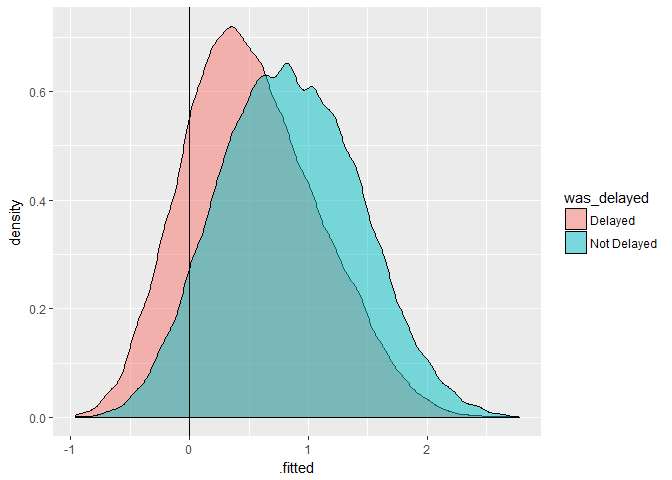
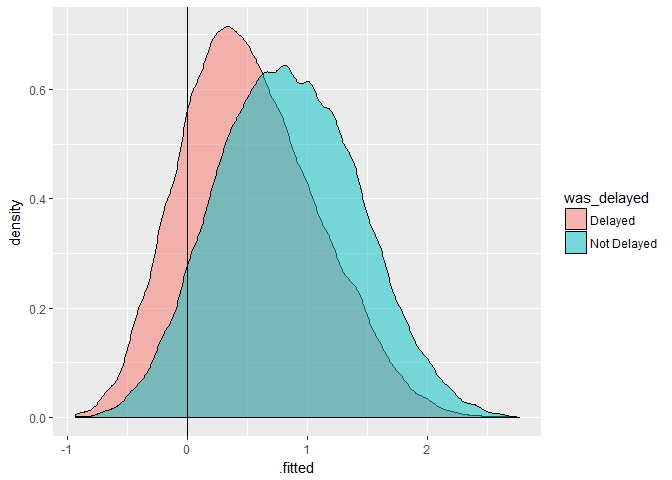
:crystal_ball:

diff --git a/README.md b/README.md
@@ -58,14 +58,14 @@ We can use dbplyr to construct dplyr commands that work on the DB.
 library(tidyverse)
 ```
 
-    ## -- Attaching packages ---------------------------------------------------------- tidyverse 1.2.1 --
+    ## -- Attaching packages --------------------------------------- tidyverse 1.2.1 --
 
     ## v ggplot2 2.2.1     v purrr   0.2.4
     ## v tibble  1.4.2     v dplyr   0.7.4
     ## v tidyr   0.8.0     v stringr 1.3.0
     ## v readr   1.1.1     v forcats 0.2.0
 
-    ## -- Conflicts ------------------------------------------------------------- tidyverse_conflicts() --
+    ## -- Conflicts ------------------------------------------ tidyverse_conflicts() --
     ## x dplyr::filter() masks stats::filter()
     ## x dplyr::lag()    masks stats::lag()
 
@@ -382,7 +382,7 @@ colscleaned_fe
     ##    outcome          1
     ##  predictor         20
     ## 
-    ## Training data contained 235743 data points and 6599 incomplete rows. 
+    ## Training data contained 235743 data points and 6510 incomplete rows. 
     ## 
     ## Operations:
     ## 
@@ -431,7 +431,7 @@ numscleaned_fe
     ##    outcome          1
     ##  predictor         20
     ## 
-    ## Training data contained 235743 data points and 6599 incomplete rows. 
+    ## Training data contained 235743 data points and 6510 incomplete rows. 
     ## 
     ## Operations:
     ## 
@@ -486,24 +486,24 @@ glm_unbal
     ## 
     ## Coefficients:
     ##    month1    month10    month11    month12     month2     month3  
-    ##   1.84970    2.21598    2.18136    1.36252    1.82903    1.94208  
+    ##   1.85865    2.23464    2.20216    1.37038    1.82294    1.95105  
     ##    month4     month5     month6     month7     month8     month9  
-    ##   1.66679    2.03914    1.62157    1.55809    1.87549    2.62006  
+    ##   1.66809    2.05364    1.61828    1.56670    1.87121    2.61962  
     ## carrierAA  carrierB6  carrierDL  carrierEV  carrierMQ  carrierUA  
-    ##   0.28168   -0.17574    0.32667   -0.39089   -0.27171    0.15833  
+    ##   0.26270   -0.18563    0.30956   -0.40124   -0.28433    0.13246  
     ## carrierUS  carrierWN  originJFK  originLGA   distance     hour11  
-    ##   0.08256   -0.17747    0.12322    0.01841   -0.10739   -0.00600  
+    ##   0.05824   -0.17311    0.13285    0.03591   -0.10876   -0.01941  
     ##    hour12     hour13     hour14     hour15     hour16     hour17  
-    ##  -0.14352   -0.22332   -0.39486   -0.59240   -0.56685   -0.70574  
+    ##  -0.13751   -0.24257   -0.39955   -0.60337   -0.55957   -0.70851  
     ##    hour18     hour19     hour20     hour21     hour22     hour23  
-    ##  -0.73363   -0.75659   -0.68971   -0.73143   -0.59814   -0.42021  
+    ##  -0.74508   -0.73835   -0.69824   -0.72290   -0.66451   -0.49821  
     ##     hour5      hour6      hour7      hour8      hour9      week1  
-    ##   0.44658    0.41576    0.37990    0.10514    0.05843   -0.43163  
+    ##   0.41630    0.42899    0.36936    0.11008    0.05182   -0.40953  
     ##     week2      week3  
-    ##  -0.16862   -0.22387  
+    ##  -0.16048   -0.22074  
     ## 
-    ## Degrees of Freedom: 221765 Total (i.e. Null);  221721 Residual
-    ##   (7379 observations deleted due to missingness)
+    ## Degrees of Freedom: 221777 Total (i.e. Null);  221733 Residual
+    ##   (7456 observations deleted due to missingness)
     ## Null Deviance:       307400 
     ## Residual Deviance: 267600    AIC: 267700
 
@@ -515,7 +515,7 @@ glance(glm_unbal)
 ```
 
     ##   null.deviance df.null    logLik      AIC      BIC deviance df.residual
-    ## 1      307431.6  221765 -133784.8 267657.7 268111.3 267569.7      221721
+    ## 1      307448.2  221777 -133818.8 267725.6 268179.2 267637.6      221733
 
 Get the coefficients
 
@@ -523,51 +523,51 @@ Get the coefficients
 tidy(glm_unbal)
 ```
 
-    ##         term     estimate   std.error   statistic       p.value
-    ## 1     month1  1.849699189 0.059380343  31.1500252 5.068044e-213
-    ## 2    month10  2.215979570 0.059965637  36.9541574 6.245544e-299
-    ## 3    month11  2.181359326 0.060067287  36.3152629 9.291910e-289
-    ## 4    month12  1.362518977 0.059528267  22.8886049 6.034077e-116
-    ## 5     month2  1.829034157 0.059618121  30.6791646 1.079530e-206
-    ## 6     month3  1.942083476 0.059594043  32.5885507 5.958489e-233
-    ## 7     month4  1.666792196 0.059460029  28.0321459 6.594316e-173
-    ## 8     month5  2.039143296 0.059687502  34.1636561 8.383578e-256
-    ## 9     month6  1.621569766 0.059559061  27.2262478 3.176462e-163
-    ## 10    month7  1.558089237 0.059506740  26.1834078 4.106439e-151
-    ## 11    month8  1.875486283 0.059634318  31.4497815 4.226593e-217
-    ## 12    month9  2.620062163 0.060763764  43.1188259  0.000000e+00
-    ## 13 carrierAA  0.281680707 0.027162837  10.3700769  3.392518e-25
-    ## 14 carrierB6 -0.175736079 0.023872939  -7.3613090  1.821154e-13
-    ## 15 carrierDL  0.326665970 0.025272978  12.9255037  3.231731e-38
-    ## 16 carrierEV -0.390886925 0.025915724 -15.0830021  2.095213e-51
-    ## 17 carrierMQ -0.271712679 0.026707134 -10.1737863  2.596162e-24
-    ## 18 carrierUA  0.158328682 0.027052122   5.8527268  4.835780e-09
-    ## 19 carrierUS  0.082560502 0.029177457   2.8295989  4.660639e-03
-    ## 20 carrierWN -0.177474196 0.033482186  -5.3005557  1.154507e-07
-    ## 21 originJFK  0.123218702 0.015804737   7.7963147  6.374132e-15
-    ## 22 originLGA  0.018413466 0.014299120   1.2877342  1.978385e-01
-    ## 23  distance -0.107392318 0.007550445 -14.2233104  6.567135e-46
-    ## 24    hour11 -0.005999922 0.031206673  -0.1922641  8.475354e-01
-    ## 25    hour12 -0.143516107 0.029769114  -4.8209735  1.428594e-06
-    ## 26    hour13 -0.223315006 0.029233663  -7.6389676  2.189705e-14
-    ## 27    hour14 -0.394862809 0.028339123 -13.9334871  3.965136e-44
-    ## 28    hour15 -0.592400092 0.027462471 -21.5712597 3.344611e-103
-    ## 29    hour16 -0.566853689 0.028010645 -20.2370808  4.617200e-91
-    ## 30    hour17 -0.705738121 0.027584043 -25.5850138 2.239980e-144
-    ## 31    hour18 -0.733632035 0.028222823 -25.9942826 5.746969e-149
-    ## 32    hour19 -0.756591701 0.028139604 -26.8870774 3.110391e-159
-    ## 33    hour20 -0.689707095 0.029721943 -23.2053163 4.023903e-119
-    ## 34    hour21 -0.731428319 0.032631044 -22.4151062 2.803717e-111
-    ## 35    hour22 -0.598139749 0.055553426 -10.7669282  4.931818e-27
-    ## 36    hour23 -0.420206184 0.080583310  -5.2145560  1.842580e-07
-    ## 37     hour5  0.446578769 0.072934840   6.1229828  9.183964e-10
-    ## 38     hour6  0.415759961 0.028968217  14.3522800  1.030915e-46
-    ## 39     hour7  0.379900725 0.030321063  12.5292682  5.163692e-36
-    ## 40     hour8  0.105143009 0.028020628   3.7523431  1.751895e-04
-    ## 41     hour9  0.058434497 0.029918207   1.9531417  5.080281e-02
-    ## 42     week1 -0.431626541 0.014445697 -29.8792473 3.661582e-196
-    ## 43     week2 -0.168616175 0.014534422 -11.6011611  4.065249e-31
-    ## 44     week3 -0.223874195 0.013449582 -16.6454394  3.265605e-62
+    ##         term    estimate   std.error   statistic       p.value
+    ## 1     month1  1.85864894 0.059504774  31.2352914 3.536485e-214
+    ## 2    month10  2.23464424 0.060018318  37.2327035 2.018752e-303
+    ## 3    month11  2.20215531 0.060125269  36.6261200 1.098344e-293
+    ## 4    month12  1.37037786 0.059561115  23.0079284 3.882814e-117
+    ## 5     month2  1.82294204 0.059662801  30.5540808 4.991119e-205
+    ## 6     month3  1.95104844 0.059630710  32.7188528 8.424614e-235
+    ## 7     month4  1.66809064 0.059576865  27.9989664 1.672543e-172
+    ## 8     month5  2.05363714 0.059761412  34.3639325 8.723017e-259
+    ## 9     month6  1.61828095 0.059631429  27.1380543 3.503305e-162
+    ## 10    month7  1.56669889 0.059541414  26.3127594 1.370254e-152
+    ## 11    month8  1.87120705 0.059669749  31.3593920 7.245109e-216
+    ## 12    month9  2.61961640 0.060766589  43.1094856  0.000000e+00
+    ## 13 carrierAA  0.26270458 0.027226330   9.6489163  4.967794e-22
+    ## 14 carrierB6 -0.18563227 0.023926324  -7.7584951  8.594305e-15
+    ## 15 carrierDL  0.30956140 0.025306457  12.2325068  2.084061e-34
+    ## 16 carrierEV -0.40123777 0.025972100 -15.4487998  7.686127e-54
+    ## 17 carrierMQ -0.28432907 0.026764962 -10.6231821  2.324979e-26
+    ## 18 carrierUA  0.13245772 0.027093384   4.8889322  1.013844e-06
+    ## 19 carrierUS  0.05823574 0.029240127   1.9916379  4.641081e-02
+    ## 20 carrierWN -0.17311168 0.033510242  -5.1659336  2.392418e-07
+    ## 21 originJFK  0.13285000 0.015788122   8.4145541  3.943922e-17
+    ## 22 originLGA  0.03591350 0.014278664   2.5151866  1.189694e-02
+    ## 23  distance -0.10875583 0.007549951 -14.4048390  4.824407e-47
+    ## 24    hour11 -0.01940598 0.031208438  -0.6218185  5.340612e-01
+    ## 25    hour12 -0.13750726 0.029784388  -4.6167563  3.897845e-06
+    ## 26    hour13 -0.24256636 0.029099036  -8.3358901  7.691732e-17
+    ## 27    hour14 -0.39954713 0.028398500 -14.0693039  5.864383e-45
+    ## 28    hour15 -0.60337057 0.027560311 -21.8927343 3.046797e-106
+    ## 29    hour16 -0.55957187 0.028049682 -19.9493125  1.519636e-88
+    ## 30    hour17 -0.70851012 0.027598336 -25.6722042 2.389518e-145
+    ## 31    hour18 -0.74507584 0.028244463 -26.3795359 2.353137e-153
+    ## 32    hour19 -0.73835323 0.028210218 -26.1732551 5.358714e-151
+    ## 33    hour20 -0.69824253 0.029744594 -23.4746026 7.414082e-122
+    ## 34    hour21 -0.72289710 0.032667951 -22.1286331 1.675804e-108
+    ## 35    hour22 -0.66450631 0.055159985 -12.0468907  2.014049e-33
+    ## 36    hour23 -0.49820550 0.079335685  -6.2797151  3.391939e-10
+    ## 37     hour5  0.41629624 0.072428290   5.7477022  9.046438e-09
+    ## 38     hour6  0.42898661 0.029020806  14.7820364  1.912938e-49
+    ## 39     hour7  0.36935928 0.030226951  12.2195349  2.444794e-34
+    ## 40     hour8  0.11008394 0.028032880   3.9269580  8.602699e-05
+    ## 41     hour9  0.05182328 0.029896878   1.7334012  8.302438e-02
+    ## 42     week1 -0.40953354 0.014414156 -28.4118993 1.441548e-177
+    ## 43     week2 -0.16047669 0.014516209 -11.0550000  2.073367e-28
+    ## 44     week3 -0.22074334 0.013423223 -16.4448843  9.125853e-61
 
 Get the fitted data
 
@@ -576,19 +576,19 @@ head(augment(glm_unbal))
 ```
 
     ##   .rownames was_delayed month carrier origin distance hour week  .fitted
-    ## 1         1     Delayed     1      UA    EWR 7.244228    5    0 1.676632
-    ## 2         2     Delayed     1      UA    LGA 7.255591    5    0 1.693825
-    ## 3         3 Not Delayed     1      B6    JFK 7.362645    5    0 1.453069
-    ## 4         4     Delayed     1      UA    EWR 6.577861    5    0 1.748195
-    ## 5         5     Delayed     1      B6    EWR 6.970730    6    0 1.341120
-    ## 6         6 Not Delayed     1      EV    LGA 5.433722    6    0 1.309446
+    ## 1         1     Delayed     1      UA    EWR 7.244228    5    0 1.619551
+    ## 2         2     Delayed     1      UA    LGA 7.255591    5    0 1.654229
+    ## 3         3     Delayed     1      AA    JFK 6.993015    5    0 1.909969
+    ## 4         4 Not Delayed     1      DL    LGA 6.635947    6    0 1.911413
+    ## 5         5 Not Delayed     1      EV    LGA 5.433722    6    0 1.331362
+    ## 6         6 Not Delayed     1      B6    JFK 6.850126    6    0 1.489862
     ##      .se.fit     .resid         .hat   .sigma      .cooksd .std.resid
-    ## 1 0.07225035 -1.9225315 0.0006928264 1.098533 8.431909e-05 -1.9231978
-    ## 2 0.07336855 -1.9300609 0.0007060464 1.098533 8.742046e-05 -1.9307427
-    ## 3 0.07272412  0.6482909 0.0008124028 1.098539 4.324788e-06  0.6485544
-    ## 4 0.07245784 -1.9538098 0.0006630377 1.098533 8.667484e-05 -1.9544579
-    ## 5 0.03098241 -1.7739579 0.0001577533 1.098534 1.371210e-05 -1.7740978
-    ## 6 0.03085874  0.6913653 0.0001593987 1.098539 9.783304e-07  0.6914204
+    ## 1 0.07176255 -1.8974689 0.0007104429 1.098643 8.166873e-05 -1.8981433
+    ## 2 0.07288594 -1.9127064 0.0007159244 1.098642 8.520378e-05 -1.9133915
+    ## 3 0.07306419 -2.0238893 0.0005997529 1.098642 9.215727e-05 -2.0244965
+    ## 4 0.03008116  0.5251842 0.0001015516 1.098649 3.413552e-07  0.5252109
+    ## 5 0.03094513  0.6846518 0.0001582729 1.098649 9.503601e-07  0.6847059
+    ## 6 0.02854165  0.6376055 0.0001222815 1.098649 6.265785e-07  0.6376444
 
 Plot predicted's vs actuals
 
@@ -618,7 +618,7 @@ test_scored %>%
   geom_vline(aes(xintercept=0))
 ```
 
-    ## Warning: Removed 3217 rows containing non-finite values (stat_density).
+    ## Warning: Removed 3140 rows containing non-finite values (stat_density).
 
 ![](README_files/figure-markdown_github/unnamed-chunk-21-1.png)
 
@@ -644,8 +644,8 @@ test_scored %>%
 
     ##              Truth
     ## Prediction    Delayed Not Delayed
-    ##   Delayed        5629        4332
-    ##   Not Delayed   26060       58964
+    ##   Delayed        5685        4428
+    ##   Not Delayed   25942       58918
 
 ``` r
 test_scored %>% 
@@ -654,4 +654,146 @@ test_scored %>%
   accuracy(was_delayed, glm_unbal_class)
 ```
 
-    ## [1] 0.6800337
+    ## [1] 0.6802249
+
+### A glmnet for feature selection
+
+Use regularization to smooth results by modifying coefficients of variables.
+
+``` r
+library(glmnetUtils)
+
+glmnet_unbal<- glmnet(was_delayed~., 
+                      train_prep1, 
+                      family="binomial",
+                      alpha=0.5, 
+                      intercept=FALSE)
+glmnet_unbal
+```
+
+    ## Call:
+    ## glmnet.formula(formula = was_delayed ~ ., data = train_prep1, 
+    ##     alpha = 0.5, family = "binomial", intercept = FALSE)
+    ## 
+    ## Model fitting options:
+    ##     Sparse model matrix: FALSE
+    ##     Use model.frame: FALSE
+    ##     Alpha: 0.5
+    ##     Lambda summary:
+    ##      Min.   1st Qu.    Median      Mean   3rd Qu.      Max. 
+    ## 0.0003162 0.0030928 0.0301844 0.3275722 0.2952239 2.8812488
+
+``` r
+glance(glmnet_unbal)
+```
+
+    ##    nulldev npasses
+    ## 1 307448.2    1667
+
+How many variables in the model at different levels of regularization?
+
+``` r
+plot(glmnet_unbal, label = TRUE)
+```
+
+![](README_files/figure-markdown_github/unnamed-chunk-26-1.png)
+
+What level of variance if explained at each step?
+
+``` r
+set.seed(1050104)
+glmnet_unbal_cv<-cv.glmnet(was_delayed~., 
+                      train_prep1, 
+                      family="binomial",
+                      alpha=0.5)
+```
+
+How do different weights perform?
+
+``` r
+plot(glmnet_unbal_cv)
+```
+
+![](README_files/figure-markdown_github/unnamed-chunk-28-1.png)
+
+``` r
+coef(glmnet_unbal_cv, s = "lambda.min")
+```
+
+    ## 56 x 1 sparse Matrix of class "dgCMatrix"
+    ##                       1
+    ## (Intercept)  1.31820641
+    ## month1       .         
+    ## month10      0.35773834
+    ## month11      0.32503227
+    ## month12     -0.48651873
+    ## month2      -0.03376733
+    ## month3       0.07631640
+    ## month4      -0.18955965
+    ## month5       0.17840963
+    ## month6      -0.23866077
+    ## month7      -0.29068093
+    ## month8       .         
+    ## month9       0.73857548
+    ## carrier9E    .         
+    ## carrierAA    0.23575181
+    ## carrierAS    .         
+    ## carrierB6   -0.19116477
+    ## carrierDL    0.28390002
+    ## carrierEV   -0.41037725
+    ## carrierF9    .         
+    ## carrierFL    .         
+    ## carrierHA    .         
+    ## carrierMQ   -0.28785889
+    ## carrierOO    .         
+    ## carrierUA    0.10120647
+    ## carrierUS    0.03957835
+    ## carrierVX    .         
+    ## carrierWN   -0.18020782
+    ## carrierYV    .         
+    ## originEWR   -0.03332492
+    ## originJFK    0.08189829
+    ## originLGA    .         
+    ## distance    -0.09815228
+    ## hour10       0.30173148
+    ## hour11       0.28254289
+    ## hour12       0.16706262
+    ## hour13       0.06025780
+    ## hour14      -0.07376837
+    ## hour15      -0.27826664
+    ## hour16      -0.23540973
+    ## hour17      -0.38240142
+    ## hour18      -0.41980766
+    ## hour19      -0.41213368
+    ## hour20      -0.37224755
+    ## hour21      -0.39580225
+    ## hour22      -0.31469296
+    ## hour23      -0.15166594
+    ## hour5        0.68906358
+    ## hour6        0.72920815
+    ## hour7        0.66904970
+    ## hour8        0.41468860
+    ## hour9        0.35360312
+    ## week0        0.21112851
+    ## week1       -0.18635516
+    ## week2        0.05224450
+    ## week3        .
+
+#### Prep and score test data
+
+``` r
+test_scored$glmnet_unbal_cv<-as.vector(predict(glmnet_unbal_cv,
+                                      test_scored,
+                                      na.action = na.pass ))
+```
+
+``` r
+test_scored %>% 
+  ggplot(aes(x=glmnet_unbal_cv, group=was_delayed, fill=was_delayed)) +
+  geom_density(alpha=.5) +
+  geom_vline(aes(xintercept=0))
+```
+
+    ## Warning: Removed 3140 rows containing non-finite values (stat_density).
+
+![](README_files/figure-markdown_github/unnamed-chunk-31-1.png)
